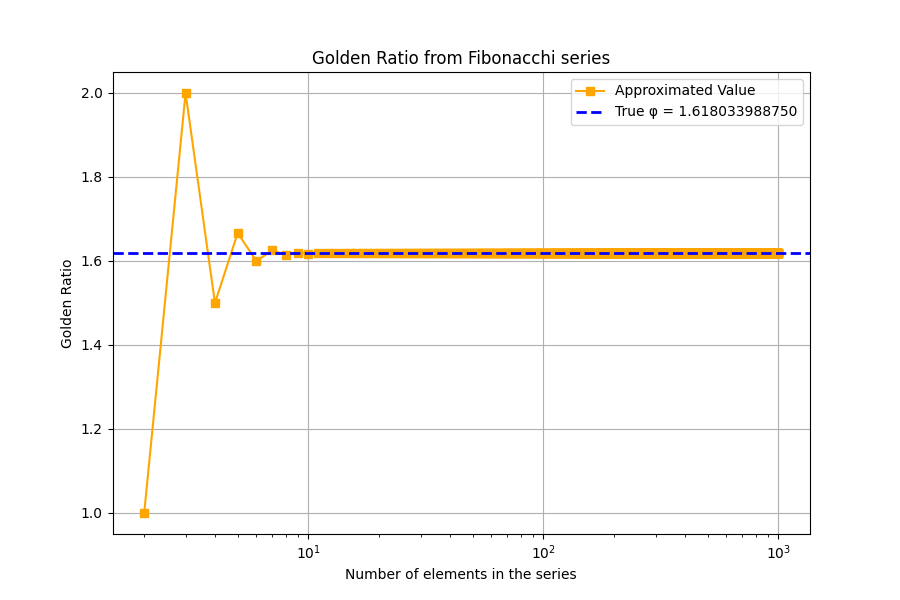
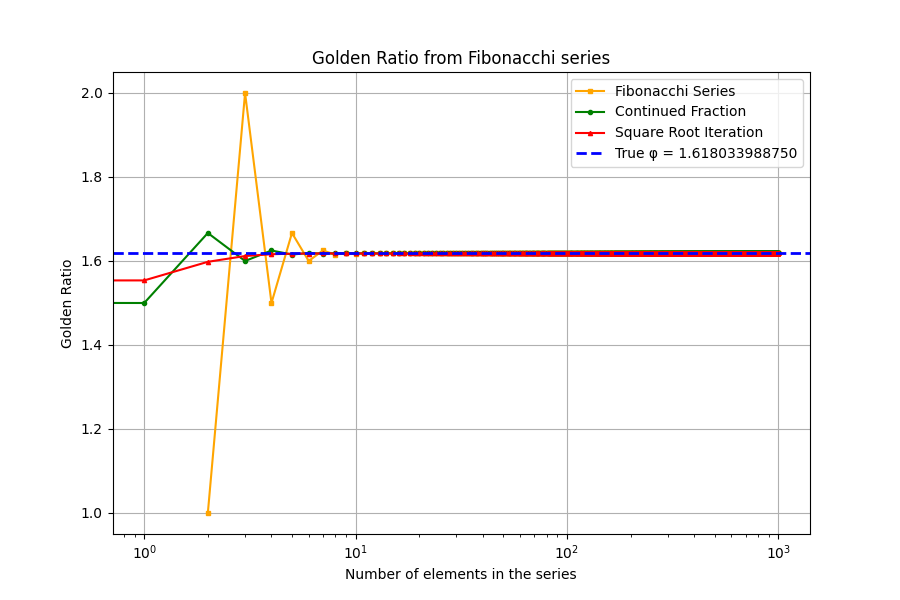
Implement and plot golden ratio approximations using continued fractions and square root iteration methods.

diff --git a/Phi/phi_hunt.py b/Phi/phi_hunt.py
@@ -3,8 +3,10 @@ import numpy as np
 import time
 import matplotlib.pyplot as plt
 
+# True value of phi
 phi_main: float = golden
 
+# Function to generate the fibonacchi series and calculate the golden ratio
 def fibon(n) -> tuple[list[int],list[float],list[int]]:
   if n == 0 or n == 1:
     raise ValueError(f"Fibonacchi series requires at lease 2 elements, {n} was set")
@@ -25,16 +27,65 @@ def fibon(n) -> tuple[list[int],list[float],list[int]]:
     golden_ratio_x.append(i)
     elements.append(prv)
   end: float = time.time()
-  print(f"Time Taken {(end-strt):.5f} Second")
+  print(f"Time Taken(Fibonacchi Series) {(end-strt):.5f} Second")
   
   return elements,golden_ratio,golden_ratio_x
 
 elms,gold,gold_x = fibon(1000)
 
+# Function to generate continued fraction of phi and generate the golden ratio
+def cont_frac(n):
+  element:list[float] = []
+  element_x:list[int] = [0]
+  
+  strt: float = time.time()
+  for i in range(n):
+    if i == 0:
+      x = 1+(1/1)
+      element.append(x)
+      continue
+    x = sum(element[-1:])
+    outp = 1+(1/x)
+    element.append(outp)
+    element_x.append(i)
+  end: float = time.time()
+  print(f"Time Taken(Continued Fraction) {(end-strt):.5f} Second")
+  
+  return element,element_x
+
+gold_cont,gold_cont_x = cont_frac(1000)
+
+# Function to generate the golden ratio from Square root iteration
+def sqrt_iter(n):
+  elements:list[float] = []
+  elements_x:list[int] = [0]
+
+  strt: float = time.time()
+  for i in range(n):
+    if i == 0:
+      x = np.sqrt(1+np.sqrt(1))
+      elements.append(x)
+      continue
+    x = sum(elements[-1:])
+    output = np.sqrt(1+x)
+    elements.append(output)
+    elements_x.append(i)
+  end: float = time.time()
+  print(f"Time Taken(Square Root Iteration) {(end-strt):.5f} Second")
+
+  return elements,elements_x
+
+sqrt_elm,sqrt_elm_x = sqrt_iter(1000)
+
+# Plotting the graph
 plt.figure(figsize=(9,6))
 
 plt.plot(gold_x,gold, color="orange",
-            marker="s",markersize=6, label="Approximated Value")
+            marker="s",markersize=3, label="Fibonacchi Series")
+plt.plot(gold_cont_x,gold_cont, color="green",
+            marker="o",markersize=3, label="Continued Fraction")
+plt.plot(sqrt_elm_x,sqrt_elm, color="red",
+            marker="^",markersize=3, label="Square Root Iteration")
 plt.axhline(y=phi_main, color="blue", linestyle="--", linewidth=2,
             label=f"True φ = {phi_main:.12f}")
 
@@ -45,4 +96,3 @@ plt.xscale("log")
 plt.legend()
 plt.grid()
 plt.show()
-
